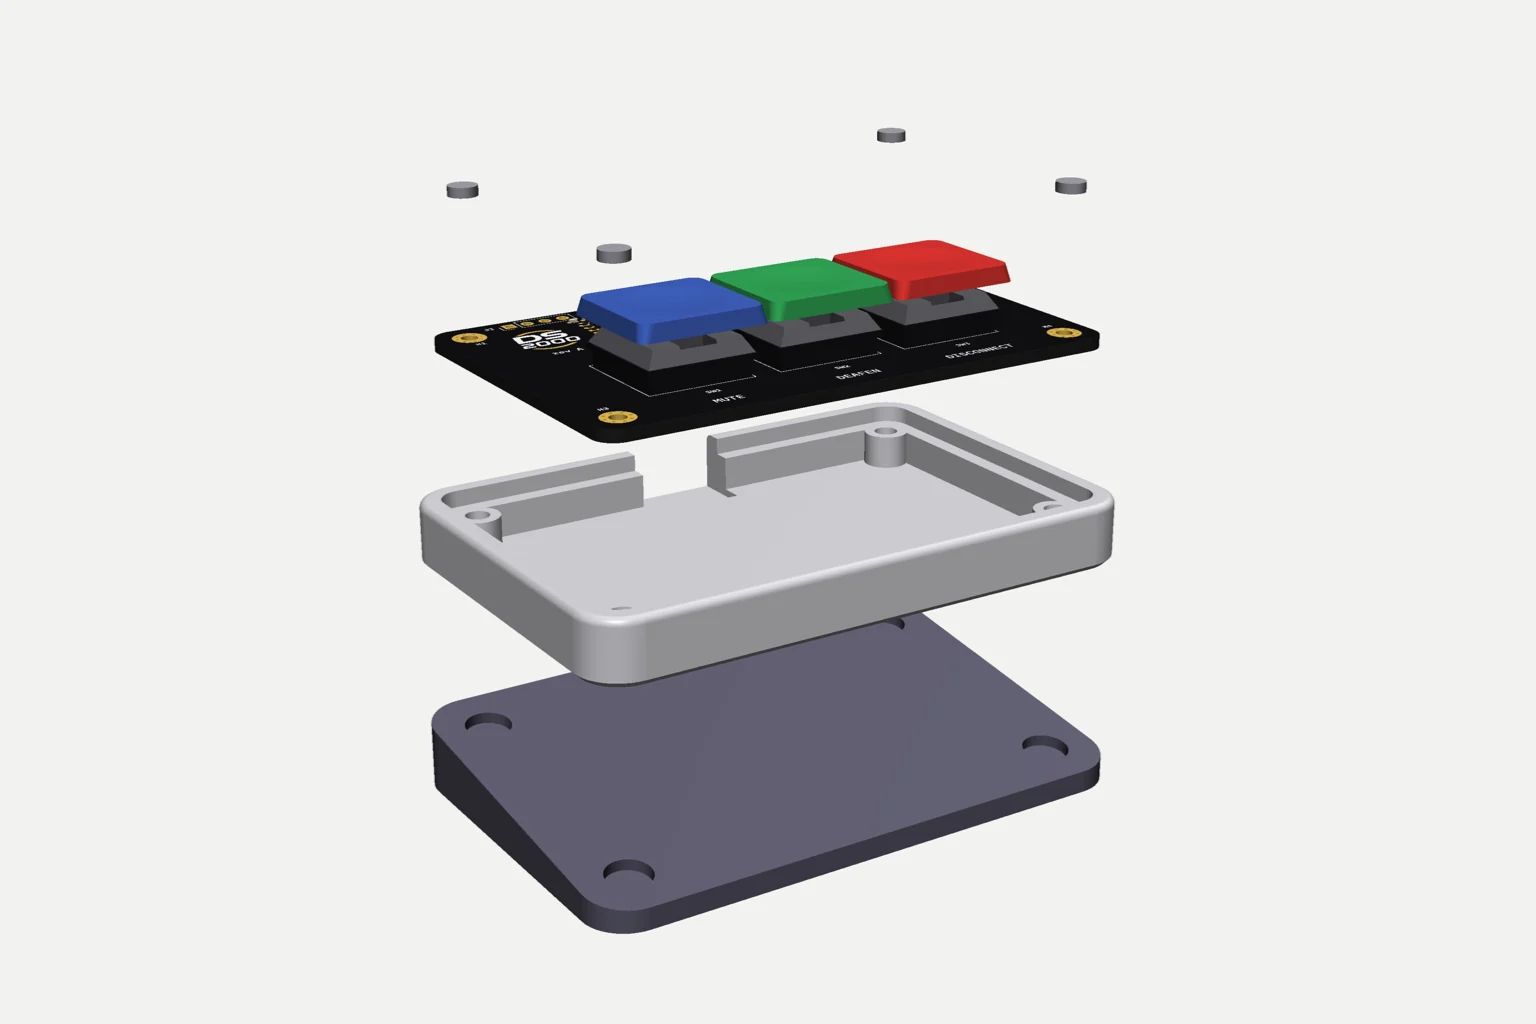
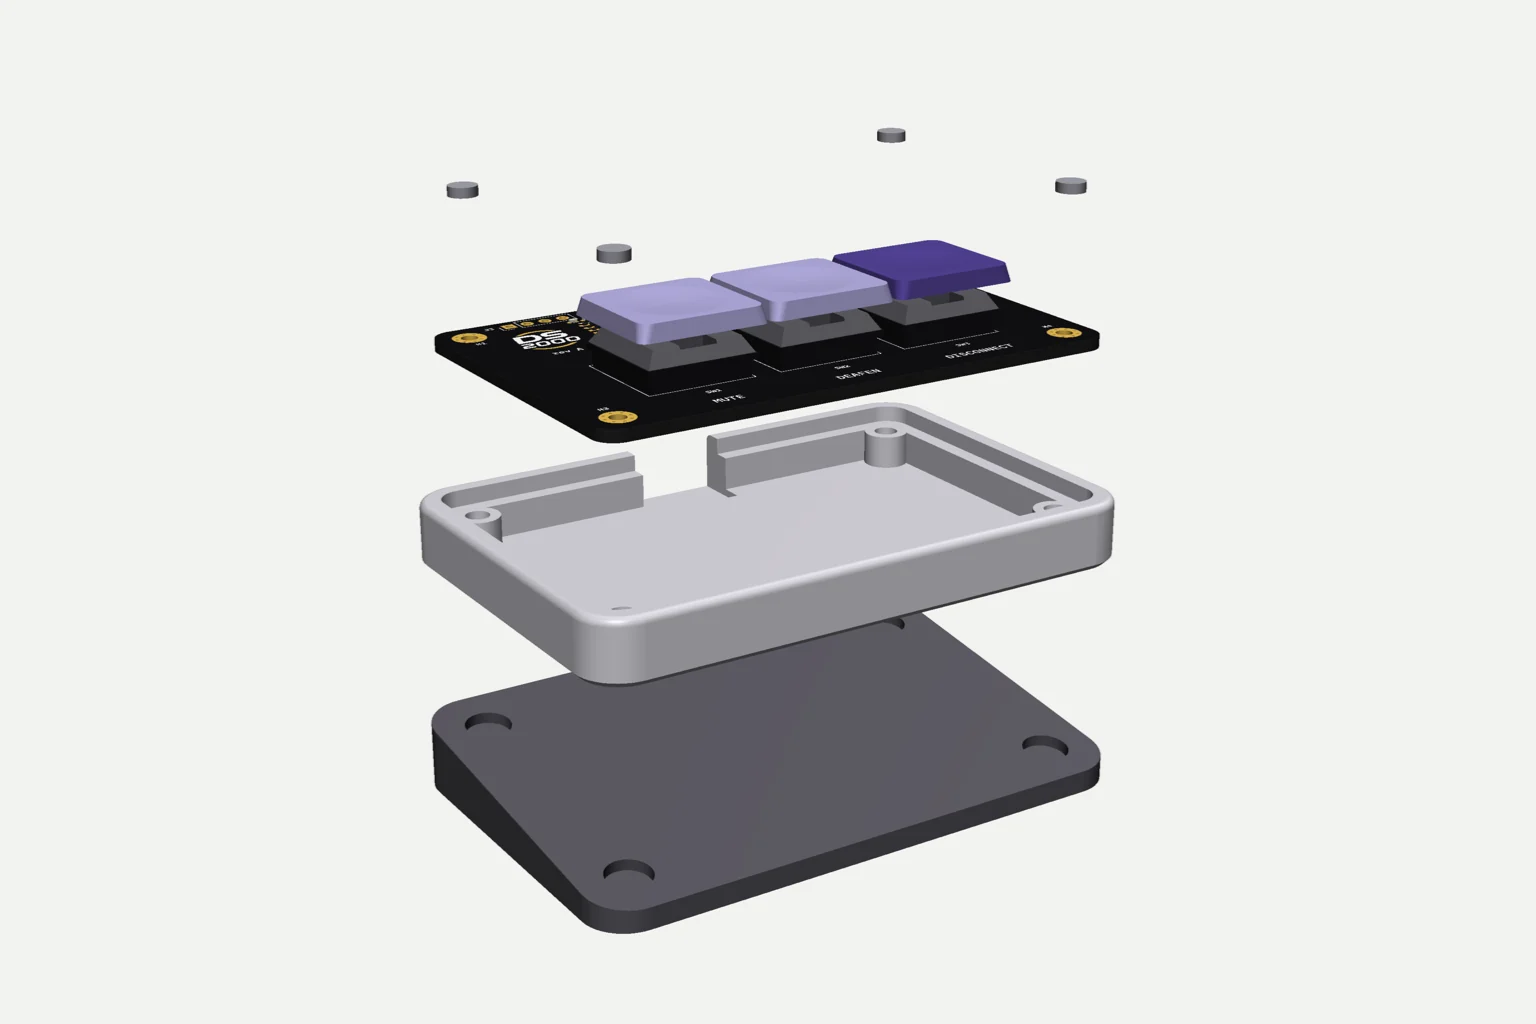
DS2000: color SNES con la paleta de la Super Nintendo americana
Carcasa gris claro, base gris oscura, MUTE y DEAFEN en el lavanda de X/Y y DISCONNECT en el violeta
de A/B. La muestra del selector de color sigue la misma paleta.

Changed region(s): [[0.375, 0.2188, 0.6562, 0.3438]]

diff --git a/templates/ds2000/ds2000.html b/templates/ds2000/ds2000.html
@@ -44,7 +44,7 @@
                 </button>
                 <button type="button" class="flex min-h-11 items-center gap-2.5 border px-3 font-mono text-xs border-line-strong text-muted hover:border-lime" aria-pressed="false" data-gallery-colour="snes"
                     data-label="{{ t.ds2000.images.colours.snes }}">
-                    <span aria-hidden="true" class="flex h-5 w-5 flex-col border border-line-strong bg-[#c9c9ce]"><span class="flex-1"></span><span class="flex h-1.5"><span class="flex-1 bg-[#3b5bb5]"></span><span class="flex-1 bg-[#2f9e51]"></span><span class="flex-1 bg-[#d3312d]"></span></span></span>
+                    <span aria-hidden="true" class="flex h-5 w-5 flex-col border border-line-strong bg-[#c8c6cd]"><span class="flex-1"></span><span class="flex h-1.5"><span class="flex-1 bg-[#a9a3d3]"></span><span class="flex-1 bg-[#a9a3d3]"></span><span class="flex-1 bg-[#4f3f8f]"></span></span></span>
                     {{ t.ds2000.images.colours.snes }}
                 </button>
             </div>
